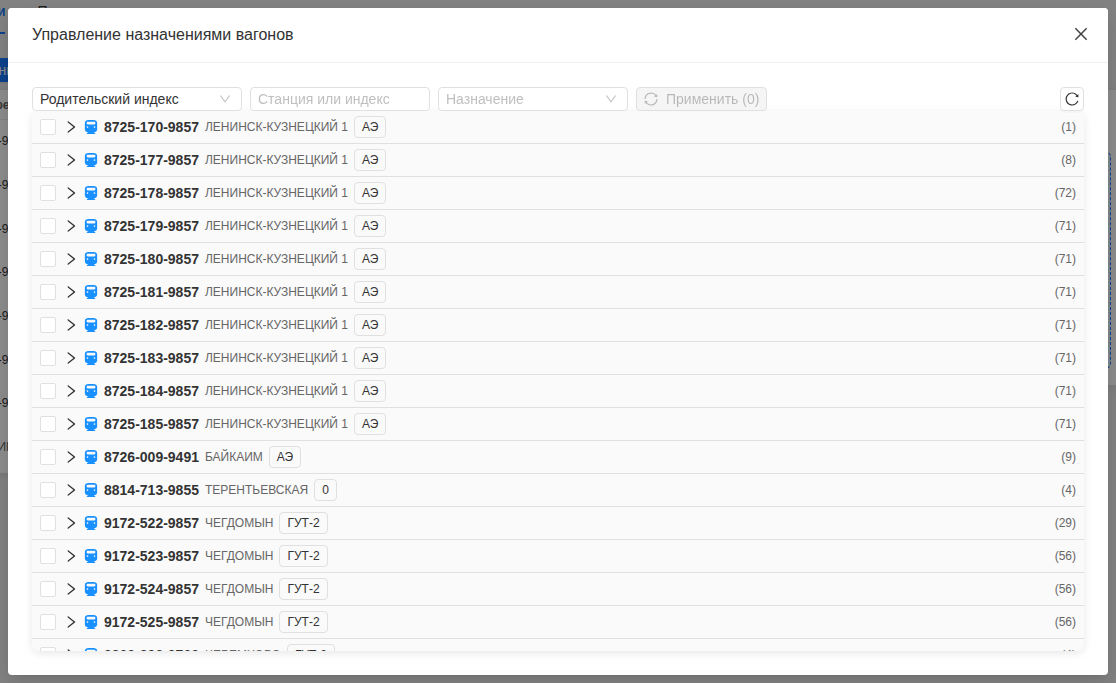
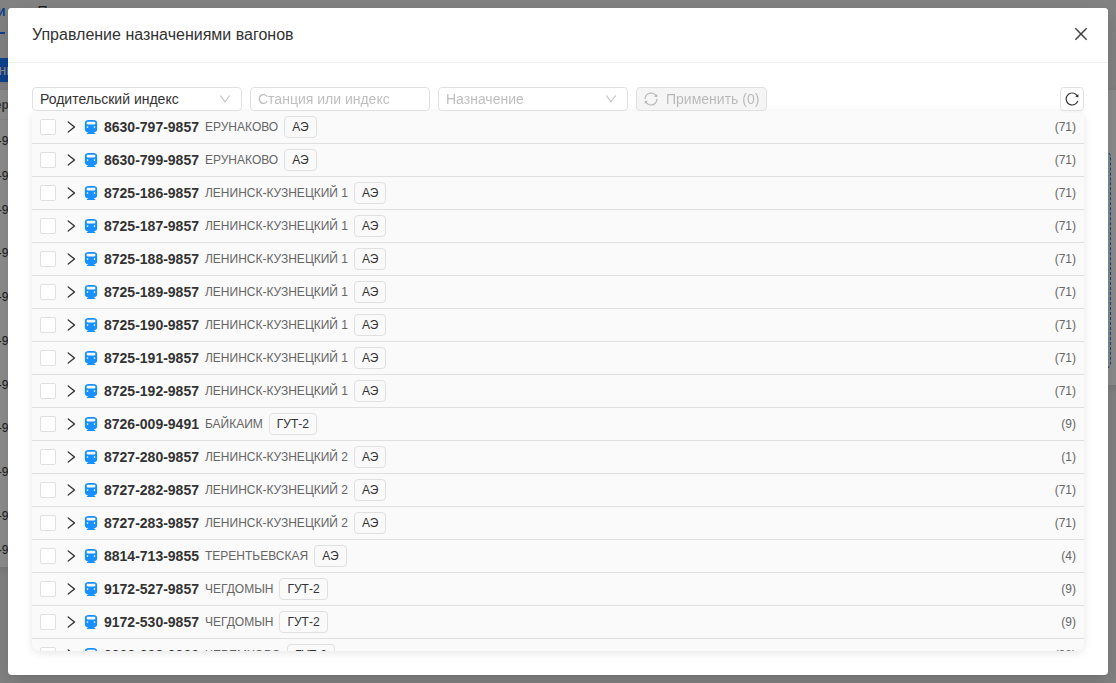
docs(help): живые скриншоты со свежей копии боя + разбор диалога плана и прибывших
Замечания владельца 14.08.2026: прежние кадры были с пустыми данными.
Локальная копия базы обновлена с VPS (дислокация 14.08 04:35), все
кадры пересняты с живыми данными: статус системы со свежими датами,
брошенные (9 активных, цвета терминалов), грузовая работа с цифрами,
история прибывших с планом/фактом/отклонением.

Новые кадры: plan-04 — насыщенный диалог проверки плана Находки
(с.ф. без кандидатов, с.ф. с группами на выбор, нитка с привязкой
поезда — с новыми формулировками); arrivals-04 — диалог «Изменить
прибытие» (шкала ЖД/МСК). Окно «Сначала обновите дислокацию»
оставлено отдельным кадром (plan-02, просьба владельца).

Тема «Контроль прибытия» расширена возможностями «Истории прибывших»:
группировка поезд→состав→вагоны, выбор кликом, операции через
«Действия»/ПКМ (изменить/отменить прибытие, выгрузить, «В терминал»),
поиск, период, Excel, история движения вагона.

Кандидаты на прибытие и на свежей базе пусты (в бою сейчас ни
кандидатов, ни пропавших) — кадр arrivals-02 показывает структуру
без строк, переснять при случае.

diff --git a/frontend/src/app/features/help/help-content.ts b/frontend/src/app/features/help/help-content.ts
@@ -111,14 +111,17 @@ export const HELP_TOPICS: HelpTopic[] = [
       'В каждой станционной колонке главной — карточка «Кандидаты на прибытие»: чип «ждёт» — вагоны, по которым пришли данные о прибытии и нужно решение; красный «пропал N д» — вагоны, выпавшие из потока с незавершённым рейсом.',
       'Разворот карточки — модалка. В жёлтой секции «Подтвердить» фиксирует прибытие (вагон переходит в прибывшие, веха уходит в историю), «Скрыть» — убирает кандидата до появления новых данных.',
       'Пропавшие: выберите вагоны и подтвердите прибытие задним числом; если вагон уже выгружен — отметьте «Выгружен», обе вехи уйдут в историю.',
-      'Правки задним числом (изменить или отменить прибытие, выгрузка, назначение) — в модалке «История прибывших» (разворот карточки «Прибывшие»), по выбранным вагонам.',
+      'Правки задним числом — в модалке «История прибывших» (разворот карточки «Прибывшие»): поезда сгруппированы по прибытию, клик по составу разворачивает вагоны, клик по вагону — выбор. Есть поиск вагона и выбор периода.',
+      'Операции над выбранными вагонами — кнопка «Действия» либо правая кнопка мыши по поезду, составу или вагону: «Изменить прибытие» (индекс, план, факт — отклонение пересчитается само), «Отменить прибытие», «Выгрузить» (дата и место), перенаправление «В терминал». Правки уходят только в историю, снимок дислокации не трогается.',
       'Времена во всех диалогах вводятся в шкале ЖД или МСК — переключатель в самом диалоге; недостающий пересчёт сервер делает сам.',
+      'Правая кнопка мыши по вагону также открывает «Историю движения вагона»; таблица прибывших выгружается в Excel кнопкой в шапке.',
     ],
     note: 'Если правится прибытие за учётные сутки, по которым выгрузка уже внесена, — выгрузку надо пересчитать (см. «Грузовая работа»).',
     images: [
       { src: 'help/arrivals-01.png', caption: 'Станционная колонка: «Кандидаты на прибытие» и «Прибывшие»' },
       { src: 'help/arrivals-02.png', caption: 'Модалка кандидатов: подтверждение и скрытие, пропавшие' },
-      { src: 'help/arrivals-03.png', caption: '«История прибывших»: правки по выбранным вагонам' },
+      { src: 'help/arrivals-03.png', caption: '«История прибывших»: поезда по прибытию, разворот составов до вагонов' },
+      { src: 'help/arrivals-04.png', caption: 'Диалог «Изменить прибытие»: шкала ЖД/МСК, отклонение пересчитывается автоматически' },
     ],
     links: [{ label: 'Открыть главную', route: '/home' }],
   },
@@ -153,6 +156,7 @@ export const HELP_TOPICS: HelpTopic[] = [
     ],
     images: [
       { src: 'help/plan-01.png', caption: 'Страница «План подвода»: вкладки станций, загрузка книги' },
+      { src: 'help/plan-04.png', caption: 'Диалог проверки: сборные поезда (отметить группы или вписать индекс) и нитки без привязанного поезда (привязать найденный или исправить индекс)' },
       { src: 'help/plan-02.png', caption: 'Отказ загрузки или пересчёта: окно подсказывает, что сделать (здесь — сначала обновить дислокацию)' },
       { src: 'help/plan-03.png', caption: 'Панель актуальности: время дислокации и планов подвода' },
     ],
